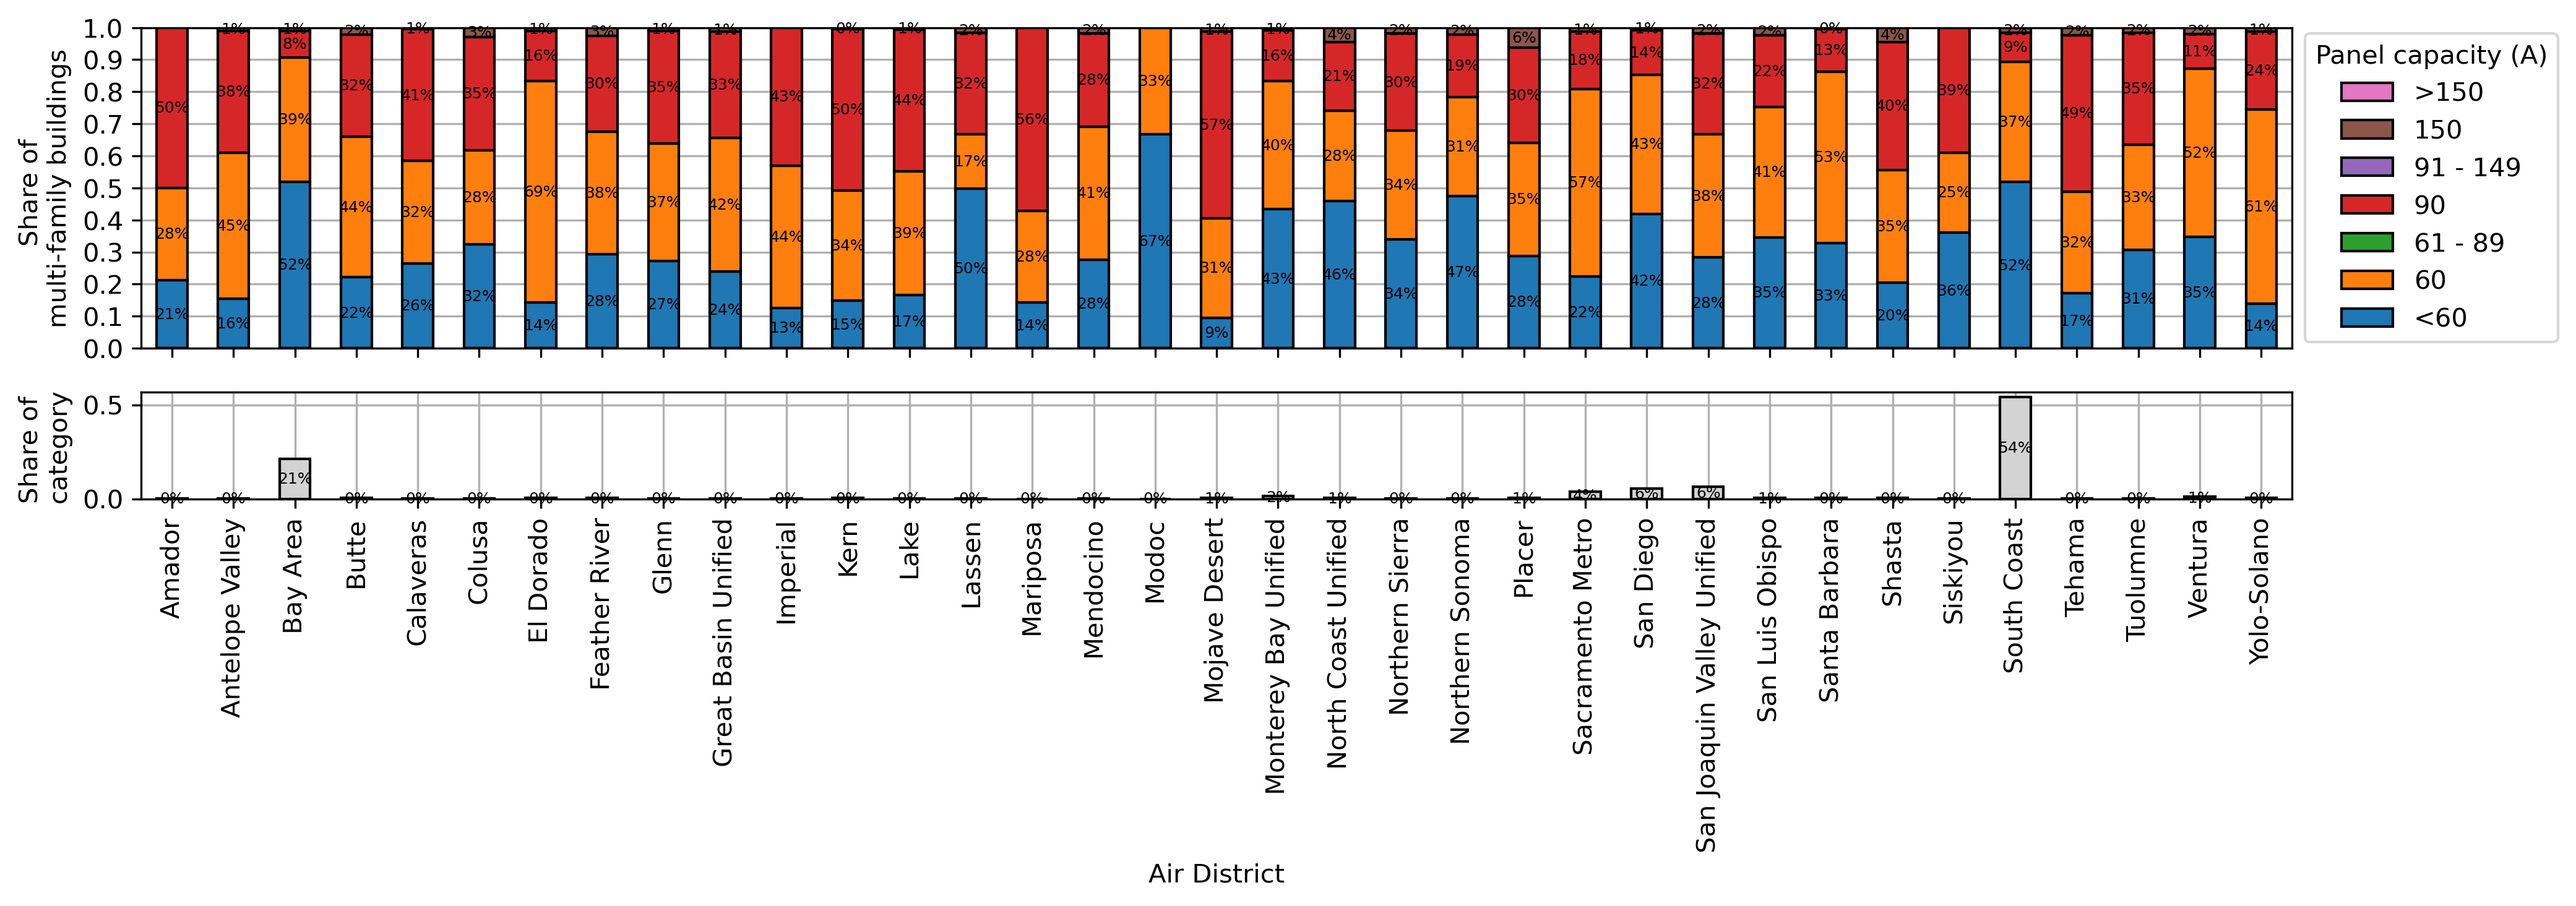
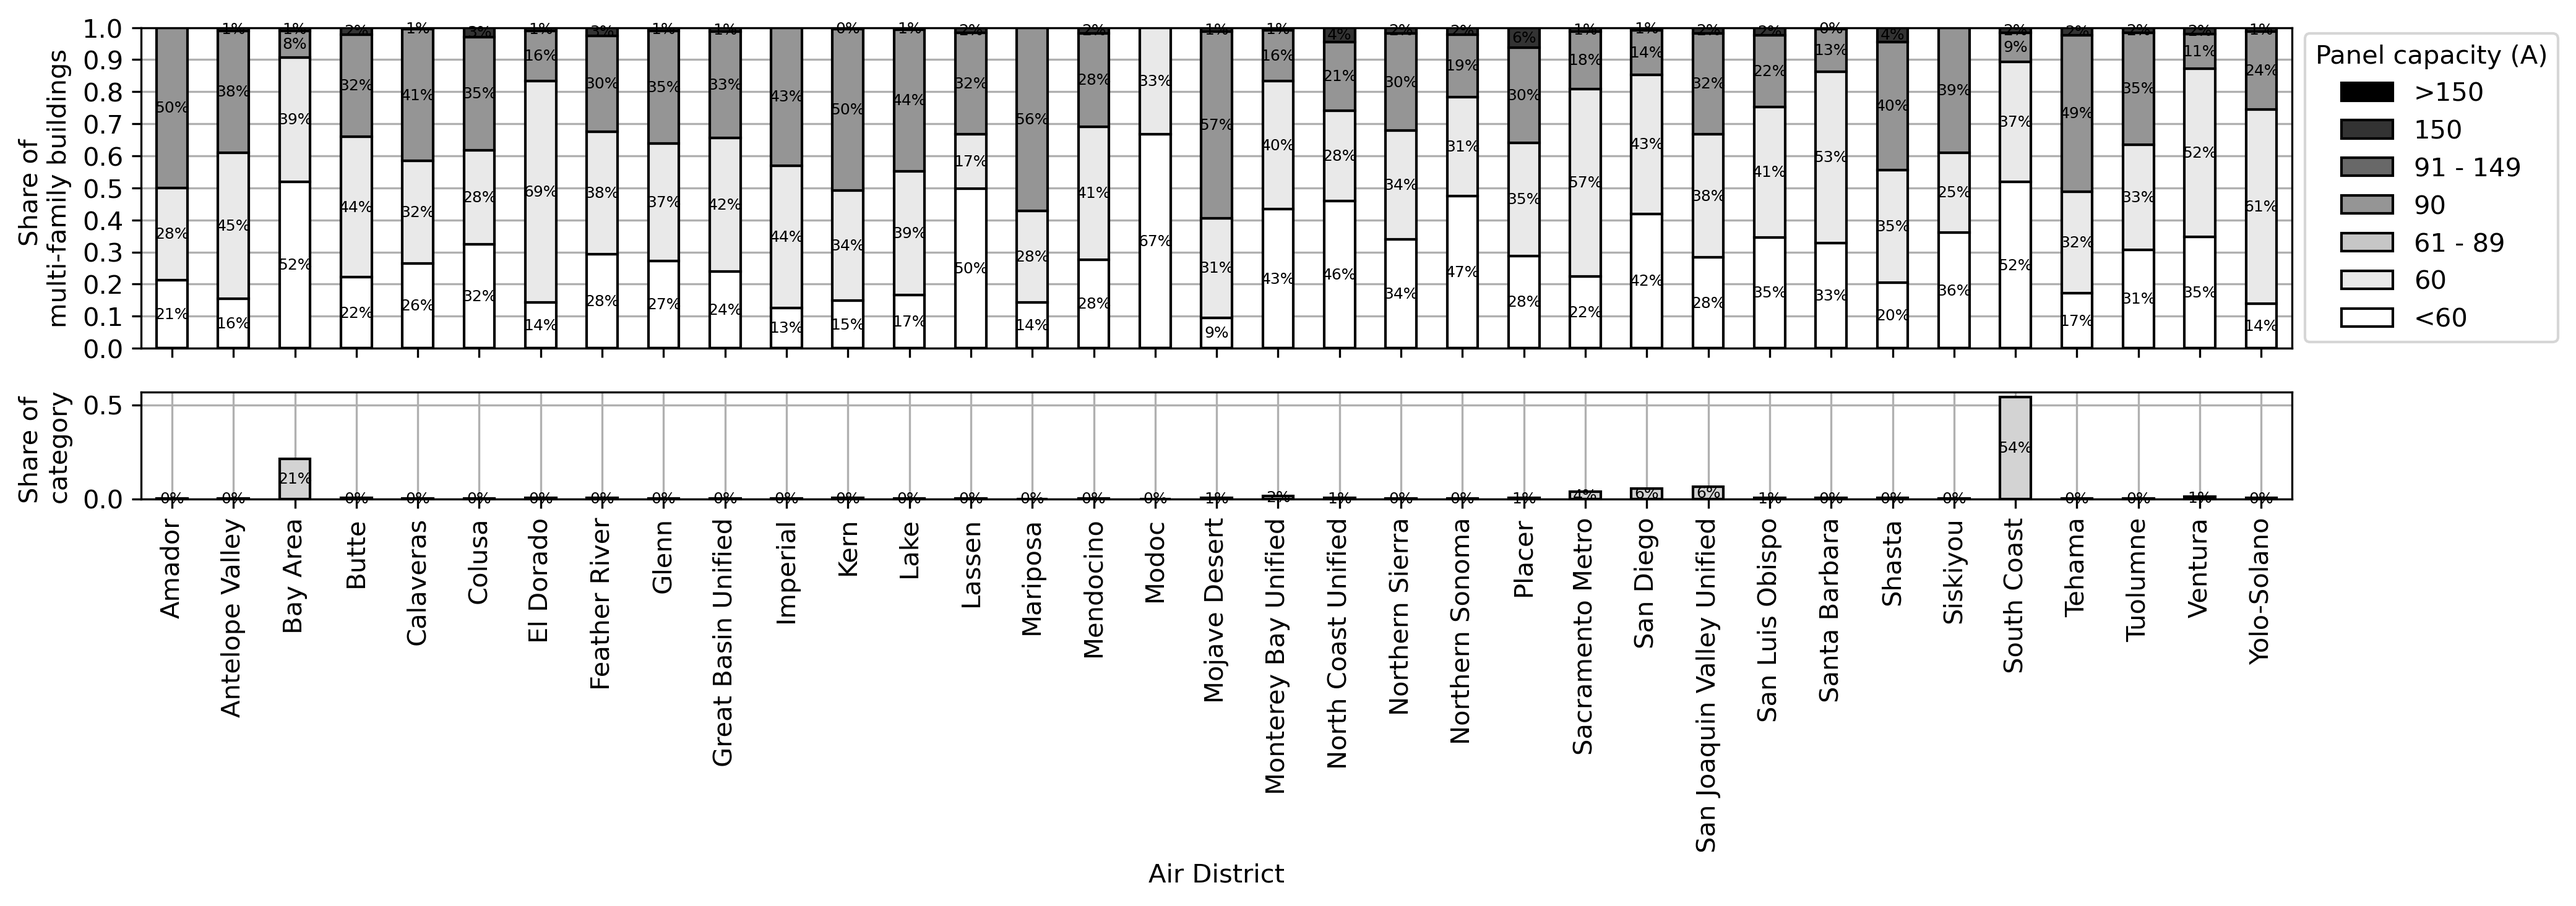
Adapt figure colors for ADA compliance.

Changed region(s): [[0.0625, 0.0307, 0.9368, 0.3993]]

diff --git a/analyses/manuscript_revisions/manuscript_revisions.py b/analyses/manuscript_revisions/manuscript_revisions.py
@@ -337,6 +337,7 @@ def PermitCountStatsBarChart(mp, sector):
 
     fig, ax = plt.subplots(1,1,figsize = (5,4))
     out[cols].plot(
+        colormap = 'Grays',
         kind = 'bar',
         stacked = True,
         ax = ax,
@@ -428,6 +429,7 @@ def DACPanelStatsBarChart(mp, sector, panel_class):
 
     fig, ax = plt.subplots(1,1,figsize = (5.4,4))
     out[cols].plot(
+        colormap = 'Grays',
         kind='bar',
         stacked=True,
         ax = ax,
@@ -528,6 +530,7 @@ def VintagePanelStatsBarChart(mp, sector, panel_class):
     fig, ax = plt.subplots(2,1,figsize = (7,5), sharex = True, gridspec_kw={'height_ratios': [3, 1]})
     out[cols].plot(
         kind='bar',
+        colormap = 'Grays',
         stacked=True,
         ax = ax[0],
         edgecolor = 'k')
@@ -643,6 +646,7 @@ def SqftPanelStatsBarChart(mp, sector, panel_class):
     fig, ax = plt.subplots(2,1,figsize = (7,5), sharex = True, gridspec_kw={'height_ratios': [3, 1]})
     out[cols].plot(
         kind='bar',
+        colormap = 'Grays',
         stacked=True,
         ax = ax[0],
         edgecolor = 'k')
@@ -753,6 +757,7 @@ def RenterPanelStatsBarChart(mp, sector, panel_class):
 
     fig, ax = plt.subplots(2,1,figsize = (7,5), sharex = True, gridspec_kw={'height_ratios': [3, 1]})
     out[cols].plot(
+        colormap = 'Grays',
         kind='bar',
         stacked=True,
         ax = ax[0],
@@ -856,6 +861,7 @@ def ClimateZonePanelStatsBarChart(mp, sector, panel_class):
 
     fig, ax = plt.subplots(2,1,figsize = (10,5), sharex = True, gridspec_kw={'height_ratios': [3, 1]})
     out[cols].plot(
+        colormap = 'Grays',
         kind='bar',
         stacked=True,
         ax = ax[0],
@@ -959,6 +965,7 @@ def AirDistrictPanelStatsBarChart(mp, sector, panel_class):
 
     fig, ax = plt.subplots(2,1,figsize = (14,5), sharex = True, gridspec_kw={'height_ratios': [3, 1]})
     out[cols].plot(
+        colormap = 'Grays',
         kind='bar',
         stacked=True,
         ax = ax[0],
